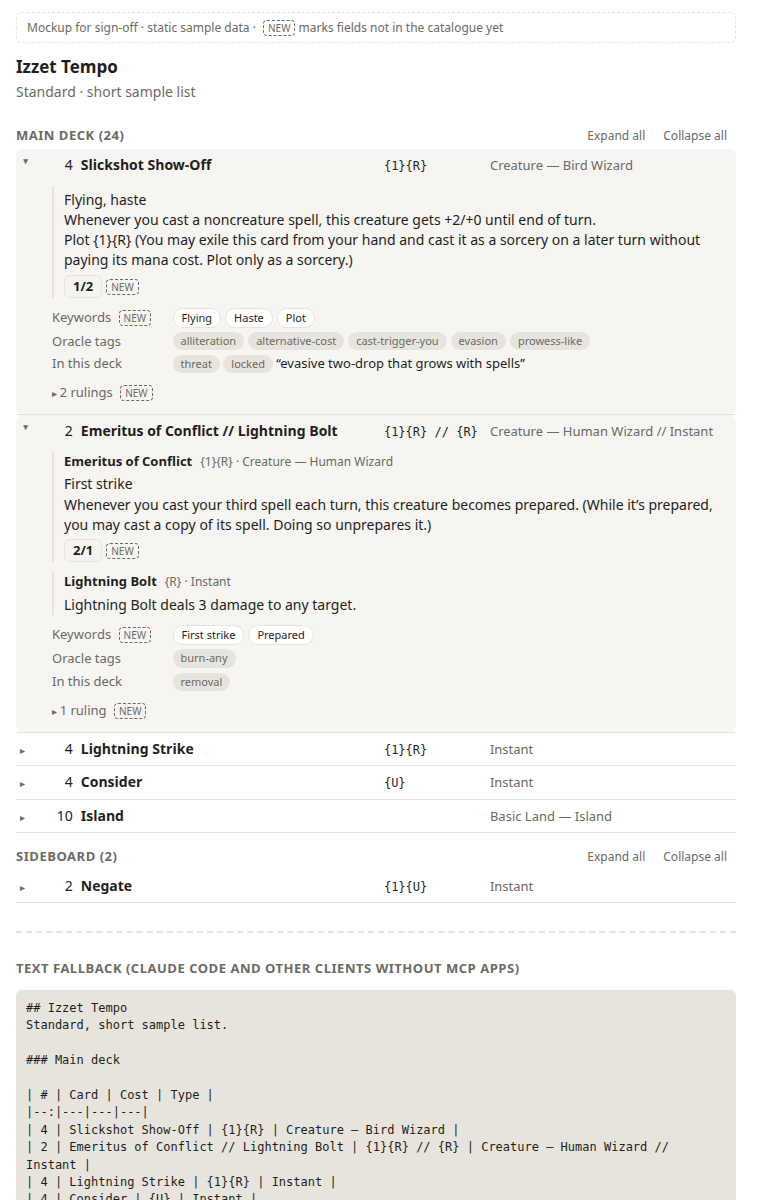
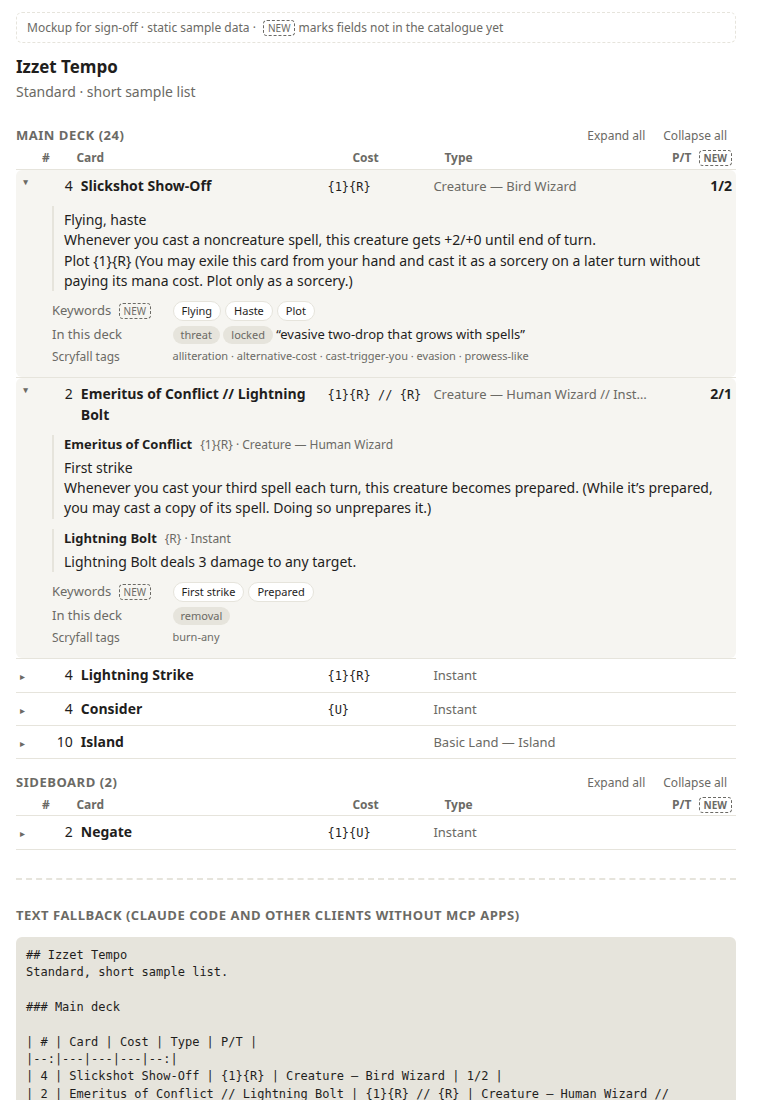
Card details mockup: P/T on the row, no rulings, Scryfall tags demoted (#70)

diff --git a/ui/mockups/card_details.html b/ui/mockups/card_details.html
@@ -8,8 +8,9 @@
   STATIC MOCKUP for sign-off. Not wired to the server.
   The deck view (ui/deck_table.html for deck_show, and deck_detail.cl.jac on the
   web) keeps one compact line per card. Each card expands on its own to show the
-  rest of the in-game information: rules text (per face), stats, keywords,
-  oracle tags, this deck's notes for the card and rulings. No art or printing
+  rest of the in-game information: rules text (per face), keywords, this
+  deck's notes for the card, then Scryfall tags (demoted, decided on #70).
+  Power/toughness is on the top-level row. No rulings. No art or printing
   info (artist, flavour text, rarity, sets). Sample data is the CARDS const below.
   Fields marked NEW are not in the catalogue yet; MTGJSON AtomicCards has them.
 -->
@@ -37,10 +38,18 @@
     border-radius: 6px; padding: 2px 8px; cursor: pointer; }
   button:hover { border-color: var(--line); color: var(--fg); }
 
+  :root { --cols: 14px 2.2em 1fr 7em minmax(0, 30%) 5.5em; }
+  .colhead { display: grid; grid-template-columns: var(--cols); gap: 8px; padding: 0 4px 2px;
+    color: var(--muted); font-size: 12px; font-weight: 600; border-bottom: 1px solid var(--line); }
+  .pt { font-variant-numeric: tabular-nums; font-weight: 600; text-align: right; }
+  .colhead span { white-space: nowrap; }
+  .colhead span:last-child { text-align: right; }
+  dt.quiet { font-size: 12px; }
+  dd.tags { color: var(--muted); font-size: 11px; }
   ul.cards { list-style: none; margin: 0; padding: 0; }
   li.card { border-bottom: 1px solid var(--line); }
   details > summary { list-style: none; cursor: pointer; display: grid;
-    grid-template-columns: 14px 2.2em 1fr 7em minmax(0, 34%); gap: 8px; align-items: baseline; padding: 6px 4px; }
+    grid-template-columns: var(--cols); gap: 8px; align-items: baseline; padding: 6px 4px; }
   details > summary::-webkit-details-marker { display: none; }
   details > summary::before { content: "▸"; font-size: 10px; color: var(--muted); transition: transform .12s; }
   details[open] > summary::before { transform: rotate(90deg); }
@@ -65,21 +74,14 @@
     color: var(--muted); font-size: 11px; white-space: nowrap; }
   .pill.kw { background: var(--bg); border: 1px solid var(--line); color: var(--fg); }
   .new { font-size: 10px; color: var(--muted); border: 1px dashed var(--muted); border-radius: 4px; padding: 0 4px; margin-left: 4px; }
-  details.rulings summary { display: block; padding: 0; color: var(--muted); font-size: 13px; }
-  details.rulings summary::before { content: "▸ "; }
-  details.rulings[open] summary::before { content: "▾ "; transform: none; }
-  details.rulings[open] summary { background: none; }
-  details.rulings ul { margin: 6px 0 0; padding-left: 18px; font-size: 13px; }
-  details.rulings li { margin-bottom: 4px; }
-  details.rulings time { color: var(--muted); font-size: 12px; margin-right: 6px; }
 
   .mock { margin: 0 0 12px; padding: 6px 10px; border: 1px dashed var(--line); border-radius: 6px; color: var(--muted); font-size: 12px; }
   .fallback { margin-top: 28px; border-top: 2px dashed var(--line); padding-top: 12px; }
   .fallback pre { white-space: pre-wrap; background: var(--line); padding: 10px; border-radius: 6px;
     font: 12px/1.45 var(--font-mono, ui-monospace, monospace); }
   @media (max-width: 520px) {
-    details > summary { grid-template-columns: 14px 2em 1fr 6em; }
-    .type { display: none; }
+    :root { --cols: 14px 2em 1fr 6em 3.5em; }
+    .type, .colhead span:nth-child(5) { display: none; }
   }
 </style>
 </head>
@@ -98,32 +100,28 @@
 
 <script>
 const CARDS = [
-  { zone: "main", count: 4, name: "Slickshot Show-Off", mana_cost: "{1}{R}", type_line: "Creature — Bird Wizard",
-    faces: [{ text: "Flying, haste\nWhenever you cast a noncreature spell, this creature gets +2/+0 until end of turn.\nPlot {1}{R} (You may exile this card from your hand and cast it as a sorcery on a later turn without paying its mana cost. Plot only as a sorcery.)", stats: "1/2" }],
+  { zone: "main", count: 4, name: "Slickshot Show-Off", mana_cost: "{1}{R}", type_line: "Creature — Bird Wizard", pt: "1/2",
+    faces: [{ text: "Flying, haste\nWhenever you cast a noncreature spell, this creature gets +2/+0 until end of turn.\nPlot {1}{R} (You may exile this card from your hand and cast it as a sorcery on a later turn without paying its mana cost. Plot only as a sorcery.)" }],
     keywords: ["Flying", "Haste", "Plot"],
     oracle_tags: ["alliteration", "alternative-cost", "cast-trigger-you", "evasion", "prowess-like"],
-    deck: { roles: ["threat"], reason: "evasive two-drop that grows with spells", locked: true },
-    rulings: [
-      { date: "2024-04-12", text: "Exiling a card using its plot ability is a special action. Once you announce you’re taking that action, no other player can respond by trying to remove that card from your hand." },
-      { date: "2024-04-12", text: "You can’t cast a plotted card on the same turn it became plotted." }
-    ], open: true },
-  { zone: "main", count: 2, name: "Emeritus of Conflict // Lightning Bolt", mana_cost: "{1}{R} // {R}", type_line: "Creature — Human Wizard // Instant",
+    deck: { roles: ["threat"], reason: "evasive two-drop that grows with spells", locked: true }, open: true },
+  { zone: "main", count: 2, name: "Emeritus of Conflict // Lightning Bolt", mana_cost: "{1}{R} // {R}", type_line: "Creature — Human Wizard // Instant", pt: "2/1",
     faces: [
-      { name: "Emeritus of Conflict", cost: "{1}{R}", type: "Creature — Human Wizard", text: "First strike\nWhenever you cast your third spell each turn, this creature becomes prepared. (While it’s prepared, you may cast a copy of its spell. Doing so unprepares it.)", stats: "2/1" },
+      { name: "Emeritus of Conflict", cost: "{1}{R}", type: "Creature — Human Wizard", text: "First strike\nWhenever you cast your third spell each turn, this creature becomes prepared. (While it’s prepared, you may cast a copy of its spell. Doing so unprepares it.)" },
       { name: "Lightning Bolt", cost: "{R}", type: "Instant", text: "Lightning Bolt deals 3 damage to any target." }
     ],
-    keywords: ["First strike", "Prepared"], oracle_tags: ["burn-any"], deck: { roles: ["removal"], reason: "", locked: false }, rulings: [{ date: "2026-03-20", text: "A creature without a prepare spell can’t become prepared." }], open: true },
+    keywords: ["First strike", "Prepared"], oracle_tags: ["burn-any"], deck: { roles: ["removal"], reason: "", locked: false }, open: true },
   { zone: "main", count: 4, name: "Lightning Strike", mana_cost: "{1}{R}", type_line: "Instant",
     faces: [{ text: "Lightning Strike deals 3 damage to any target." }], keywords: [], oracle_tags: ["burn-any", "spot-removal"],
-    deck: { roles: ["removal"], reason: "cheap instant-speed removal", locked: false }, rulings: [] },
+    deck: { roles: ["removal"], reason: "cheap instant-speed removal", locked: false } },
   { zone: "main", count: 4, name: "Consider", mana_cost: "{U}", type_line: "Instant",
     faces: [{ text: "Look at the top card of your library. You may put that card into your graveyard.\nDraw a card." }], keywords: ["Surveil"],
-    oracle_tags: ["cantrip"], deck: { roles: [], reason: "", locked: false }, rulings: [] },
+    oracle_tags: ["cantrip"], deck: { roles: [], reason: "", locked: false } },
   { zone: "main", count: 10, name: "Island", mana_cost: "", type_line: "Basic Land — Island",
-    faces: [{ text: "({T}: Add {U}.)" }], keywords: [], oracle_tags: [], deck: { roles: ["land"], reason: "", locked: false }, rulings: [] },
+    faces: [{ text: "({T}: Add {U}.)" }], keywords: [], oracle_tags: [], deck: { roles: ["land"], reason: "", locked: false } },
   { zone: "sideboard", count: 2, name: "Negate", mana_cost: "{1}{U}", type_line: "Instant",
     faces: [{ text: "Counter target noncreature spell." }], keywords: [], oracle_tags: ["counterspell-noncreature"],
-    deck: { roles: ["counter"], reason: "against control", locked: false }, rulings: [] }
+    deck: { roles: ["counter"], reason: "against control", locked: false } }
 ];
 
 const esc = (s) => String(s ?? "").replace(/[&<>"']/g, (c) =>
@@ -135,7 +133,7 @@ function body(c) {
     <div class="face">
       ${f.name ? `<h3>${esc(f.name)} <span class="ft">${esc(f.cost)} · ${esc(f.type)}</span></h3>` : ""}
       <p class="rules">${esc(f.text)}</p>
-      ${f.stats ? `<span class="stats" title="Power/toughness">${esc(f.stats)}</span>${NEW}` : ""}
+      ${f.stats ? `<span class="stats" title="Power/toughness">${esc(f.stats)}</span>` : ""}
     </div>`).join("");
   const notes = [
     c.deck.roles.length ? `<span>${c.deck.roles.map((r) => `<span class="pill">${esc(r)}</span>`).join(" ")}</span>` : "",
@@ -146,11 +144,9 @@ function body(c) {
     ${faces}
     <dl>
       ${c.keywords.length ? `<dt>Keywords ${NEW}</dt><dd class="pills">${c.keywords.map((k) => `<span class="pill kw">${esc(k)}</span>`).join("")}</dd>` : ""}
-      ${c.oracle_tags.length ? `<dt>Oracle tags</dt><dd class="pills">${c.oracle_tags.map((t) => `<span class="pill">${esc(t)}</span>`).join("")}</dd>` : ""}
       ${notes ? `<dt>In this deck</dt><dd>${notes}</dd>` : ""}
+      ${c.oracle_tags.length ? `<dt class="quiet">Scryfall tags</dt><dd class="tags">${c.oracle_tags.map(esc).join(" · ")}</dd>` : ""}
     </dl>
-    ${c.rulings.length ? `<details class="rulings"><summary>${c.rulings.length} ruling${c.rulings.length > 1 ? "s" : ""} ${NEW}</summary>
-      <ul>${c.rulings.map((r) => `<li><time>${esc(r.date)}</time>${esc(r.text)}</li>`).join("")}</ul></details>` : ""}
   </div>`;
 }
 
@@ -160,8 +156,9 @@ function zone(title, key) {
   const total = rows.reduce((a, c) => a + c.count, 0);
   return `<div class="zonehead"><h2>${title} (${total})</h2>
       <span><button data-all="open" data-zone="${key}">Expand all</button><button data-all="close" data-zone="${key}">Collapse all</button></span></div>
+    <div class="colhead"><span></span><span>#</span><span>Card</span><span>Cost</span><span>Type</span><span>P/T ${NEW}</span></div>
     <ul class="cards" data-zone="${key}">${rows.map((c) => `<li class="card"><details${c.open ? " open" : ""}>
-      <summary><span class="n">${c.count}</span><span class="name">${esc(c.name)}</span><span class="cost">${esc(c.mana_cost)}</span><span class="type">${esc(c.type_line)}</span></summary>
+      <summary><span class="n">${c.count}</span><span class="name">${esc(c.name)}</span><span class="cost">${esc(c.mana_cost)}</span><span class="type">${esc(c.type_line)}</span><span class="pt">${esc(c.pt || "")}</span></summary>
       ${body(c)}</details></li>`).join("")}</ul>`;
 }
 
@@ -177,9 +174,9 @@ document.getElementById("fallback").textContent = [
   ``,
   `### Main deck`,
   ``,
-  `| # | Card | Cost | Type |`,
-  `|--:|---|---|---|`,
-  ...CARDS.filter((c) => c.zone === "main").map((c) => `| ${c.count} | ${c.name} | ${c.mana_cost} | ${c.type_line} |`),
+  `| # | Card | Cost | Type | P/T |`,
+  `|--:|---|---|---|--:|`,
+  ...CARDS.filter((c) => c.zone === "main").map((c) => `| ${c.count} | ${c.name} | ${c.mana_cost} | ${c.type_line} | ${c.pt || ""} |`),
   ``,
   `(Card details aren't in the table. Ask about a card and Claude calls get_card.)`
 ].join("\n");
